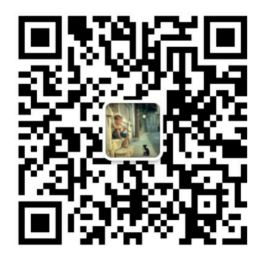
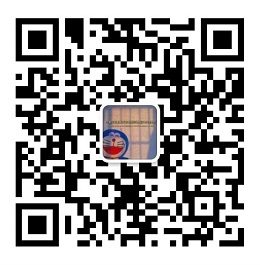
修改自我介绍

diff --git a/themes/todo/Redis/Redis安装.md b/themes/todo/Redis/Redis安装.md
@@ -1,0 +1,83 @@
+### 1、下载
+
+地址：https://redis.io/download
+
+
+
+### 2、安装
+
+解压：
+
+```sh
+tar -zxvf redis-6.2.5.tar.gz
+```
+
+编译安装：
+
+**注意：需要安装gcc环境，默认是安装在/usr/local/bin**
+
+```sh
+cd redis-6.2.5
+#编译
+make
+
+#安装
+#make install
+
+#或者安装到指定目录下
+make install PREFIX=/opt/module/redis
+```
+
+Tips：
+
+如果未安装gcc，先安装gcc
+
+```sh
+#检查是否安装了gcc
+gcc -v
+
+#安装
+sudo yum install gcc
+```
+
+
+
+### 3、修改配置
+
+复制配置文件
+
+```sh
+cp /opt/software/redis-6.2.5/redis.conf /opt/module/redis/conf
+```
+
+编辑配置文件
+
+```sh
+cd /opt/module/redis/conf
+
+vim redis.conf
+```
+
+修改如下：
+
+```conf
+#绑定ip，即指定客户端ip，可以绑定多个，或者如下，表示所有ip都可以访问
+bind 0.0.0.0
+#指定端口号
+port 6379
+#指定后台启动
+daemonize yes
+#指定日志位置，日志文件名称
+logfile "/opt/module/redis/logs/redis.log"
+#指定数据存储位置
+dir /opt/module/redis/data
+```
+
+
+
+### 4、启动
+
+```sh
+/opt/module/redis/bin/redis-server /opt/module/redis/conf/redis.conf
+```
+

diff --git a/source/_posts/Hexo博客搭建.md b/source/_posts/Hexo博客搭建.md
@@ -72,7 +72,7 @@ hexo -v
 先创建一个文件夹，用于存放hexo初始化的文件，我创建的文件夹的位置为E:\blog。然后在此文件夹下执行如下命令：
 
 ```shell
-se
+hexo init blog
 ```
 
 其中hexo-blog为自定义的文件夹名。如果缺少module，就进入到hexo-blog文件夹，执行如下命令：
@@ -179,8 +179,6 @@ hexo deploy
 
 #### 5.1、创建分支
 
-
-
 #### 5.2、克隆分支到本地
 
 ```shell
@@ -279,3 +277,4 @@ theme: 主题名称
 
 
 ### 8、添加插件
+

diff --git a/source/about/index.md b/source/about/index.md
@@ -26,5 +26,5 @@ typora-root-url: index
 
 > 如果我的文章有幸帮到你，或者文章哪里写的不对的，又或者有什么需要我帮助的都可以加我微信私聊，交个朋友，小弟我荣幸之至。
 
-![](my.JPG)
+![](my.jpg)
 
